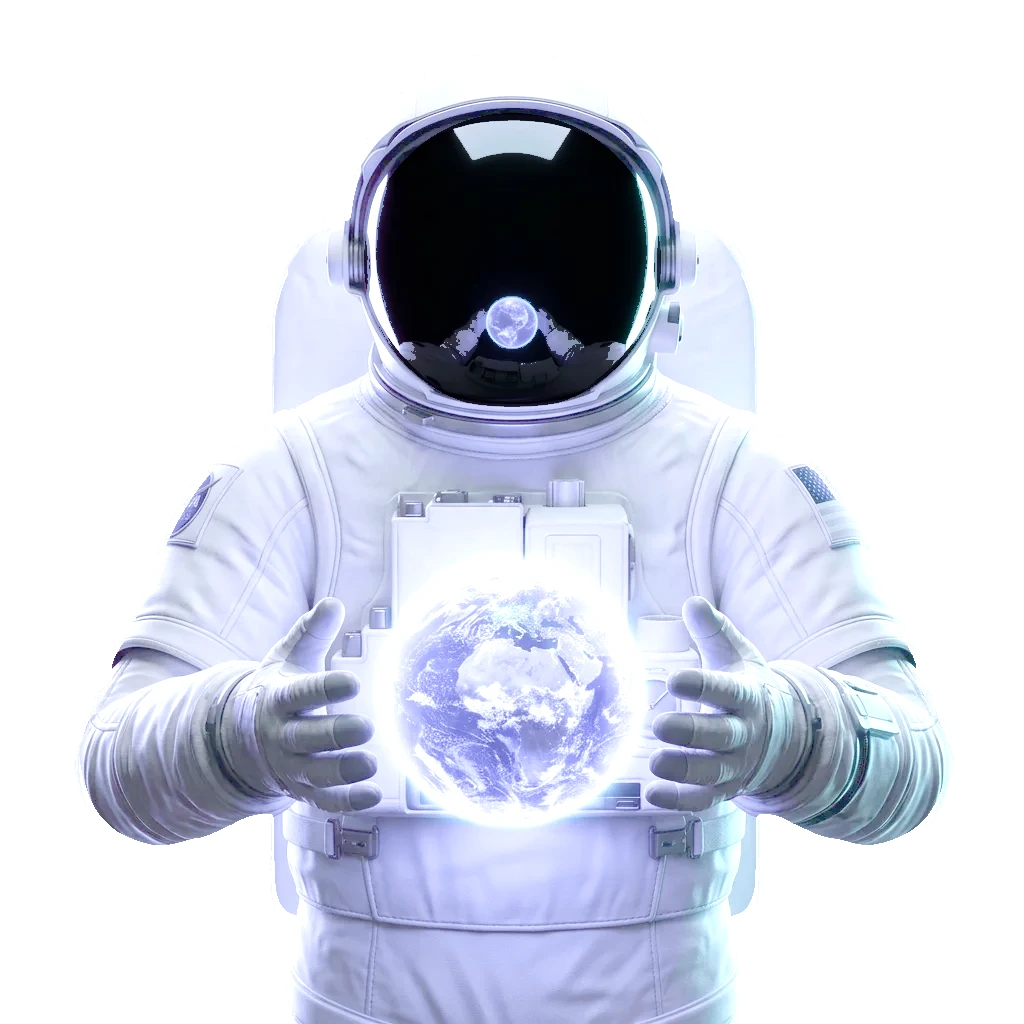
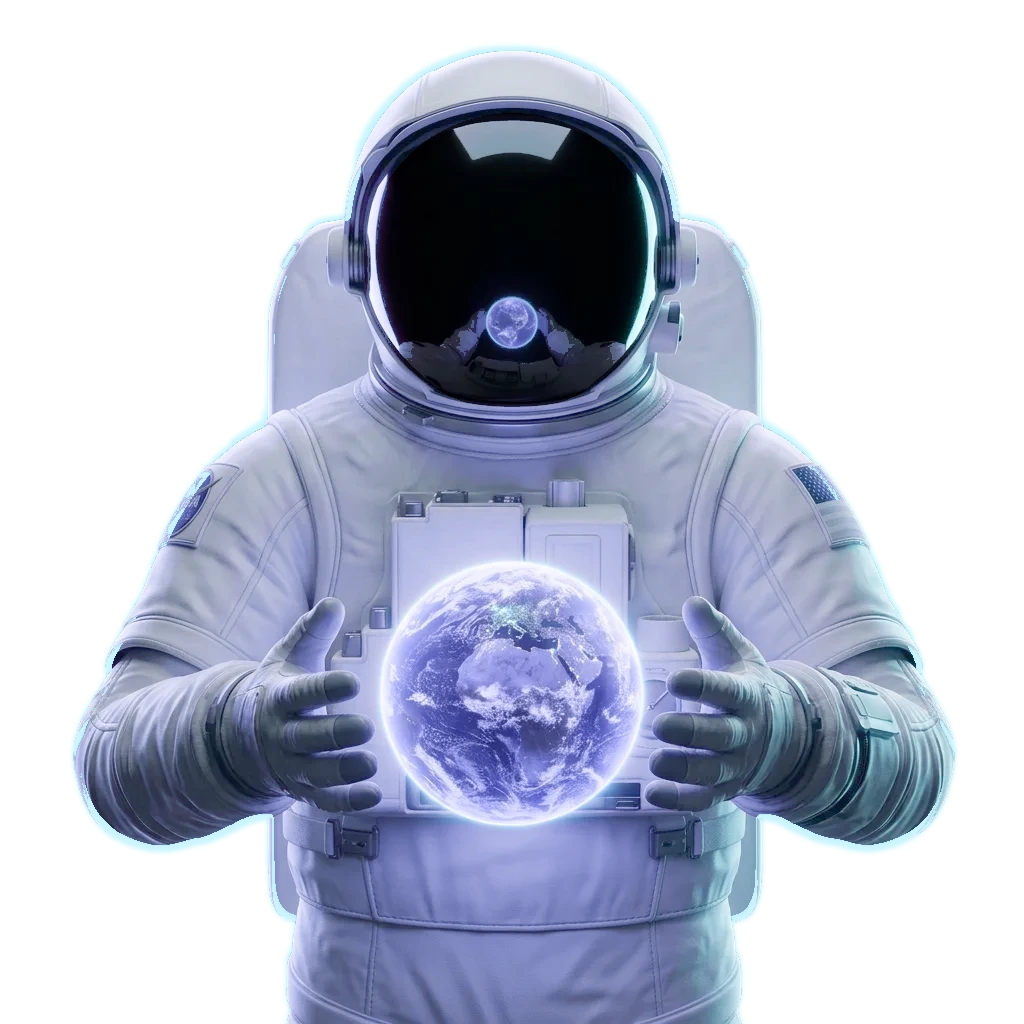
style: balance light mode astronaut with sky-blue illumination

diff --git a/frontend/app/globals.css b/frontend/app/globals.css
@@ -217,49 +217,113 @@ html.light .glow-hover:hover {
 
 /* Light Mode only: Ken Burns, Hero, Explore & Floating Pill Animations (60fps GPU transforms) */
 @keyframes lb-ken-burns {
-  0% { transform: scale(1) translate3d(0, 0, 0); }
-  50% { transform: scale(1.06) translate3d(-1.2%, -0.8%, 0); }
-  100% { transform: scale(1.02) translate3d(0.8%, -0.4%, 0); }
+  0% {
+    transform: scale(1) translate3d(0, 0, 0);
+  }
+
+  50% {
+    transform: scale(1.06) translate3d(-1.2%, -0.8%, 0);
+  }
+
+  100% {
+    transform: scale(1.02) translate3d(0.8%, -0.4%, 0);
+  }
 }
 
 @keyframes lb-chip-float {
-  0%, 100% { transform: translate3d(0, 0, 0); }
-  50% { transform: translate3d(0, -6px, 0); }
+
+  0%,
+  100% {
+    transform: translate3d(0, 0, 0);
+  }
+
+  50% {
+    transform: translate3d(0, -6px, 0);
+  }
 }
 
 @keyframes heroDrift {
-  0%, 100% { transform: scale(1) translate3d(0, 0, 0); }
-  50% { transform: scale(1.03) translate3d(0, -8px, 0); }
+
+  0%,
+  100% {
+    transform: scale(1) translate3d(0, 0, 0);
+  }
+
+  50% {
+    transform: scale(1.03) translate3d(0, -8px, 0);
+  }
 }
 
 @keyframes wm {
-  0%, 100% { transform: translateY(0); }
-  50% { transform: translateY(-6px); }
+
+  0%,
+  100% {
+    transform: translateY(0);
+  }
+
+  50% {
+    transform: translateY(-6px);
+  }
 }
 
 @keyframes riseIn {
-  from { opacity: 0; transform: translateY(18px); }
-  to { opacity: 1; transform: none; }
+  from {
+    opacity: 0;
+    transform: translateY(18px);
+  }
+
+  to {
+    opacity: 1;
+    transform: none;
+  }
 }
 
 @keyframes slowZoom {
-  0%, 100% { transform: scale(1); }
-  50% { transform: scale(1.04); }
+
+  0%,
+  100% {
+    transform: scale(1);
+  }
+
+  50% {
+    transform: scale(1.04);
+  }
 }
 
 @keyframes sweep {
-  0% { transform: translateX(-100%) rotate(15deg); }
-  100% { transform: translateX(200%) rotate(15deg); }
+  0% {
+    transform: translateX(-100%) rotate(15deg);
+  }
+
+  100% {
+    transform: translateX(200%) rotate(15deg);
+  }
 }
 
 @keyframes floaty {
-  0%, 100% { transform: translate(-50%, -50%) translateY(0); }
-  50% { transform: translate(-50%, -50%) translateY(-6px); }
+
+  0%,
+  100% {
+    transform: translate(-50%, -50%) translateY(0);
+  }
+
+  50% {
+    transform: translate(-50%, -50%) translateY(-6px);
+  }
 }
 
 @keyframes twinkle {
-  0%, 100% { opacity: .25; transform: scale(.9); }
-  50% { opacity: 1; transform: scale(1.2); }
+
+  0%,
+  100% {
+    opacity: .25;
+    transform: scale(.9);
+  }
+
+  50% {
+    opacity: 1;
+    transform: scale(1.2);
+  }
 }
 
 @keyframes heroDrift {
@@ -395,9 +459,20 @@ html.light .pill {
   will-change: transform;
 }
 
-html.light .pill:nth-child(2n) { animation-delay: -1.4s; animation-duration: 6.2s; }
-html.light .pill:nth-child(3n) { animation-delay: -2.8s; animation-duration: 5s; }
-html.light .pill:nth-child(4n) { animation-delay: -4s; animation-duration: 6.8s; }
+html.light .pill:nth-child(2n) {
+  animation-delay: -1.4s;
+  animation-duration: 6.2s;
+}
+
+html.light .pill:nth-child(3n) {
+  animation-delay: -2.8s;
+  animation-duration: 5s;
+}
+
+html.light .pill:nth-child(4n) {
+  animation-delay: -4s;
+  animation-duration: 6.8s;
+}
 
 html.light .star {
   animation: twinkle 3.6s ease-in-out infinite;
@@ -472,7 +547,14 @@ html.light .star {
     transition-duration: 0.01ms !important;
     scroll-behavior: auto !important;
   }
-  .hero-bg, .hero-watermark, .hero-content, .explore-bg, .explore::after, .pill, .star {
+
+  .hero-bg,
+  .hero-watermark,
+  .hero-content,
+  .explore-bg,
+  .explore::after,
+  .pill,
+  .star {
     animation: none !important;
   }
 

diff --git a/frontend/components/home/HeroSection.tsx b/frontend/components/home/HeroSection.tsx
@@ -299,7 +299,7 @@ export default function HeroSection() {
             priority
             className={`w-full h-auto object-contain object-bottom ${
               mounted && isLight
-                ? "drop-shadow-[0_0_28px_rgba(255,255,255,0.7)]"
+                ? "drop-shadow-[0_0_28px_rgba(125,211,252,0.55)]"
                 : "drop-shadow-[0_10px_35px_rgba(139,92,246,0.25)]"
             }`}
           />
